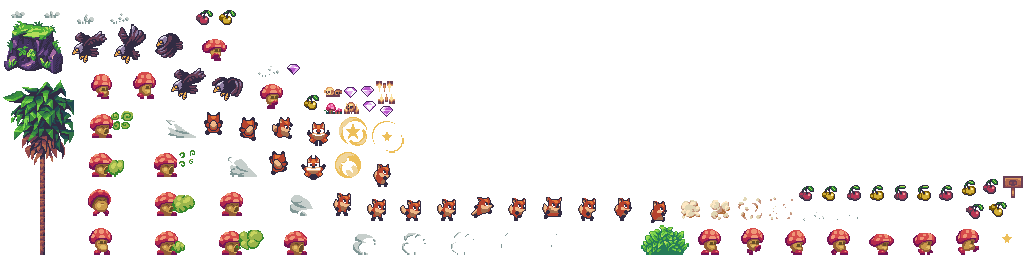
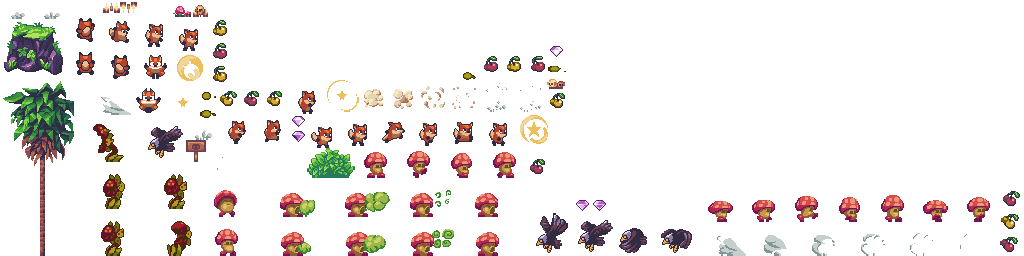
add new enemy Piranha (WIP)

diff --git a/core/src/main/kotlin/io/github/quillraven/foxventure/system/AttackSystem.kt b/core/src/main/kotlin/io/github/quillraven/foxventure/system/AttackSystem.kt
@@ -9,6 +9,7 @@ import io.github.quillraven.foxventure.component.Collision
 import io.github.quillraven.foxventure.component.EntityTag
 import io.github.quillraven.foxventure.component.Follow
 import io.github.quillraven.foxventure.component.Graphic
+import io.github.quillraven.foxventure.component.ProximityDetector
 import io.github.quillraven.foxventure.component.Transform
 import io.github.quillraven.foxventure.tiled.TiledService
 import kotlin.math.abs
@@ -31,20 +32,22 @@ class AttackSystem(
         }
 
         // attack timer is zero -> ready to attack
-        val follow = entity.getOrNull(Follow)
-        if (follow == null || follow.target == Entity.NONE) {
-            attack.readyToAttack = follow == null
+        val target = entity.getOrNull(Follow)?.target
+            ?: entity.getOrNull(ProximityDetector)?.target
+            ?: Entity.NONE
+        if (target.wasRemoved()) {
+            attack.readyToAttack = true
             return
         }
 
-        // ready to attack only if Follow target is within attack range
+        // ready to attack only if target is within attack range
         val (position) = entity[Transform]
         val collBox = entity[Collision].box
         val centerX = position.x + collBox.x + (collBox.width * 0.5f)
         val centerY = position.y + collBox.y + (collBox.height * 0.5f)
 
-        val (targetPosition) = follow.target[Transform]
-        val targetCollBox = follow.target[Collision].box
+        val (targetPosition) = target[Transform]
+        val targetCollBox = target[Collision].box
         val targetCenterX = targetPosition.x + targetCollBox.x + (targetCollBox.width * 0.5f)
         val targetCenterY = targetPosition.y + targetCollBox.y + (targetCollBox.height * 0.5f)
 

diff --git a/assets/maps/objects.tsx b/assets/maps/objects.tsx
@@ -1,5 +1,5 @@
 <?xml version="1.0" encoding="UTF-8"?>
-<tileset version="1.10" tiledversion="1.11.2" name="objects" tilewidth="41" tileheight="41" tilecount="6" columns="0">
+<tileset version="1.10" tiledversion="1.11.2" name="objects" tilewidth="61" tileheight="45" tilecount="7" columns="0">
  <grid orientation="orthogonal" width="1" height="1"/>
  <tile id="0" type="player">
   <properties>
@@ -81,6 +81,23 @@
   <image source="../graphics/sprites/objects/cherry-gold/idle_0.png" width="21" height="21"/>
   <objectgroup draworder="index" id="2">
    <object id="1" x="0" y="4" width="15" height="13"/>
+  </objectgroup>
+ </tile>
+ <tile id="6" type="enemy">
+  <properties>
+   <property name="attack" type="class" propertytype="Attack">
+    <properties>
+     <property name="cooldown" type="float" value="1"/>
+     <property name="damage" type="int" value="1"/>
+     <property name="range" type="float" value="4"/>
+    </properties>
+   </property>
+   <property name="life" type="int" value="1"/>
+   <property name="proximity_range" type="float" value="4.5"/>
+  </properties>
+  <image source="../graphics/sprites/objects/piranha/idle_0.png" width="61" height="45"/>
+  <objectgroup draworder="index" id="2">
+   <object id="1" x="20" y="16" width="21" height="29"/>
   </objectgroup>
  </tile>
 </tileset>

diff --git a/core/src/main/kotlin/io/github/quillraven/foxventure/ai/piranhaState.kt b/core/src/main/kotlin/io/github/quillraven/foxventure/ai/piranhaState.kt
@@ -1,0 +1,37 @@
+package io.github.quillraven.foxventure.ai
+
+import com.github.quillraven.fleks.Entity
+import com.github.quillraven.fleks.World
+import io.github.quillraven.foxventure.component.Animation
+import io.github.quillraven.foxventure.component.AnimationType
+import io.github.quillraven.foxventure.component.Attack
+import io.github.quillraven.foxventure.component.Fsm
+import io.github.quillraven.foxventure.component.ProximityDetector
+
+data object PiranhaStateIdle : FsmState {
+    override fun World.onEnter(entity: Entity) {
+        entity[Animation].changeTo(AnimationType.IDLE)
+    }
+
+    override fun World.onUpdate(entity: Entity) {
+        val fsm = entity[Fsm]
+        val target = entity[ProximityDetector].target
+        if (target.wasRemoved() || entity[Attack].time > 0f) {
+            return
+        }
+
+        fsm.state.changeState(PiranhaStateAttack)
+    }
+}
+
+data object PiranhaStateAttack : FsmState {
+    override fun World.onEnter(entity: Entity) {
+        entity[Animation].changeTo(AnimationType.ATTACK)
+    }
+
+    override fun World.onUpdate(entity: Entity) {
+        if (entity[Animation].isFinished()) {
+            entity[Fsm].state.changeState(PiranhaStateIdle)
+        }
+    }
+}

diff --git a/core/src/main/kotlin/io/github/quillraven/foxventure/cfg/piranhaCfg.kt b/core/src/main/kotlin/io/github/quillraven/foxventure/cfg/piranhaCfg.kt
@@ -1,0 +1,24 @@
+package io.github.quillraven.foxventure.cfg
+
+import com.badlogic.gdx.maps.tiled.TiledMapTile
+import com.github.quillraven.fleks.Entity
+import com.github.quillraven.fleks.EntityCreateContext
+import com.github.quillraven.fleks.World
+import io.github.quillraven.foxventure.ai.FleksStateMachine
+import io.github.quillraven.foxventure.ai.PiranhaStateIdle
+import io.github.quillraven.foxventure.component.Fsm
+import io.github.quillraven.foxventure.component.Player
+import io.github.quillraven.foxventure.component.ProximityDetector
+import ktx.tiled.property
+
+fun EntityCreateContext.piranhaCfg(
+    world: World,
+    tile: TiledMapTile,
+    entity: Entity,
+) {
+    entity += Fsm(FleksStateMachine(world, entity, PiranhaStateIdle))
+    entity += ProximityDetector(
+        range = tile.property("proximity_range"),
+        predicate = { target -> target has Player }
+    )
+}

diff --git a/core/src/main/kotlin/io/github/quillraven/foxventure/system/SpawnSystem.kt b/core/src/main/kotlin/io/github/quillraven/foxventure/system/SpawnSystem.kt
@@ -18,6 +18,7 @@ import io.github.quillraven.foxventure.ai.FleksStateMachine
 import io.github.quillraven.foxventure.ai.PlayerStateIdle
 import io.github.quillraven.foxventure.cfg.eagleCfg
 import io.github.quillraven.foxventure.cfg.mushroomCfg
+import io.github.quillraven.foxventure.cfg.piranhaCfg
 import io.github.quillraven.foxventure.component.Animation
 import io.github.quillraven.foxventure.component.AnimationType
 import io.github.quillraven.foxventure.component.Attack
@@ -226,6 +227,7 @@ class SpawnSystem(
         when (val enemyType = atlasKey.substringAfter("objects/").substringBefore("/")) {
             "mushroom" -> mushroomCfg(world, tile, entity)
             "eagle" -> eagleCfg(world, tile, entity)
+            "piranha" -> piranhaCfg(world, tile, entity)
             else -> gdxError("No enemy state for enemy $enemyType")
         }
     }
